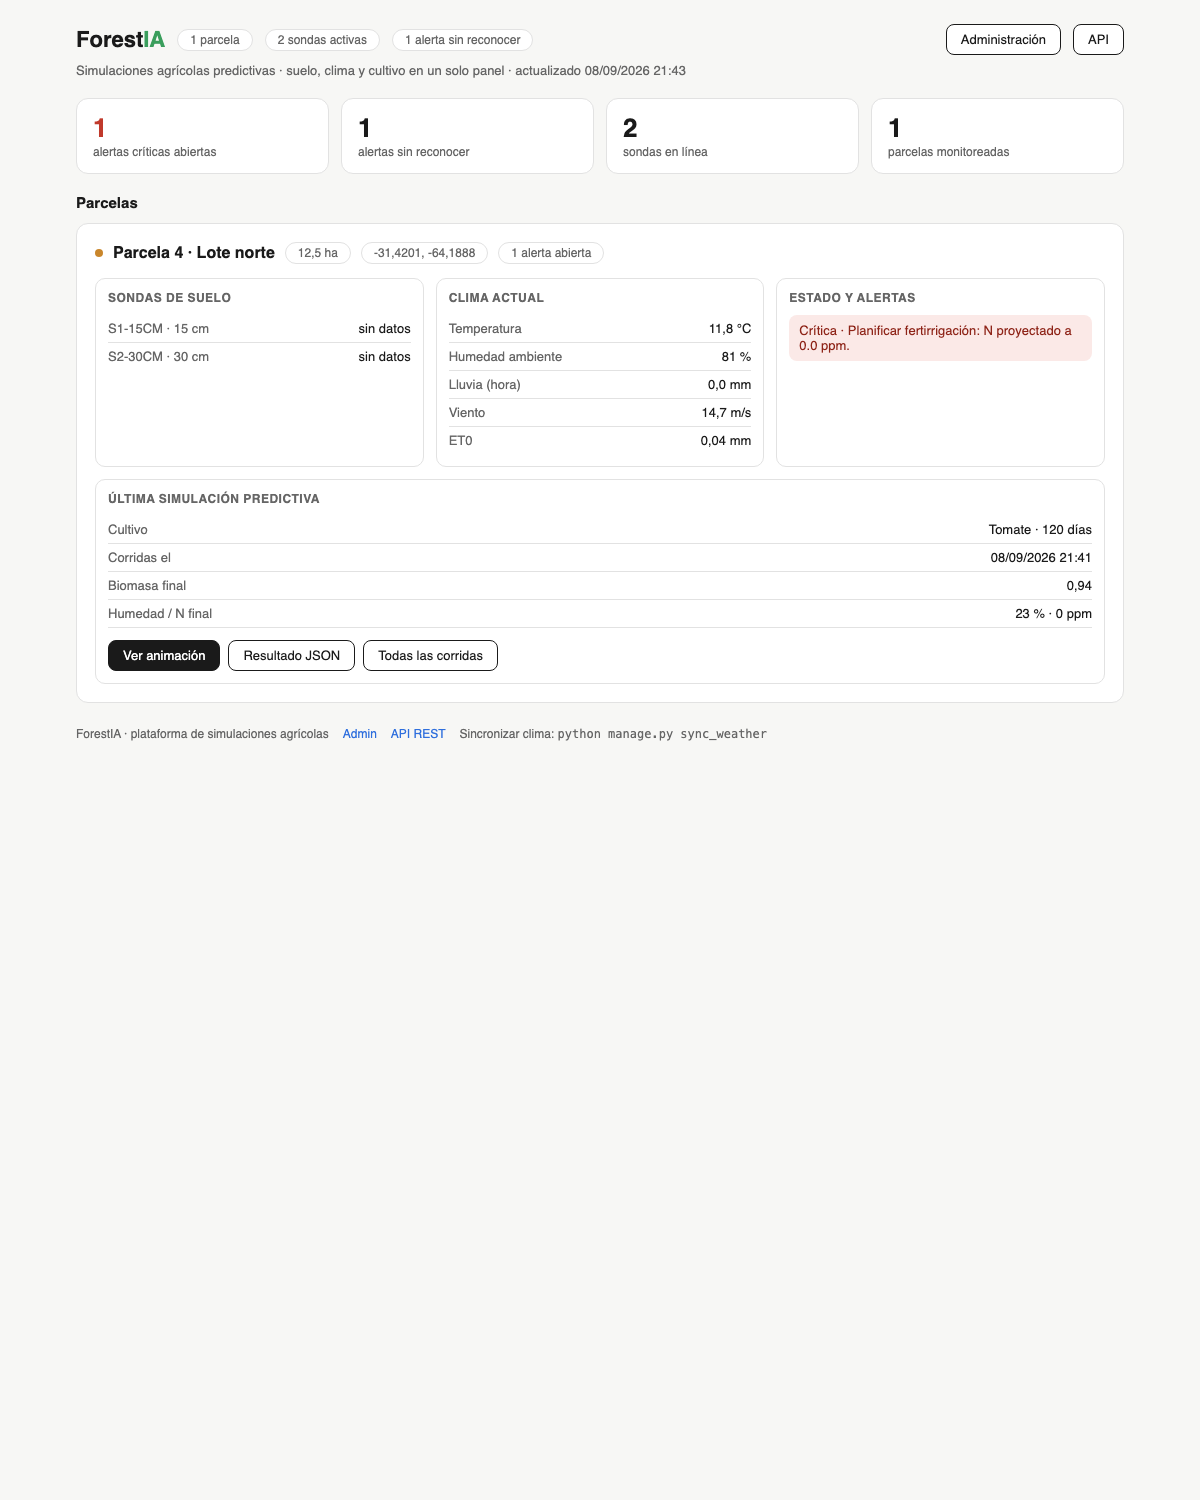
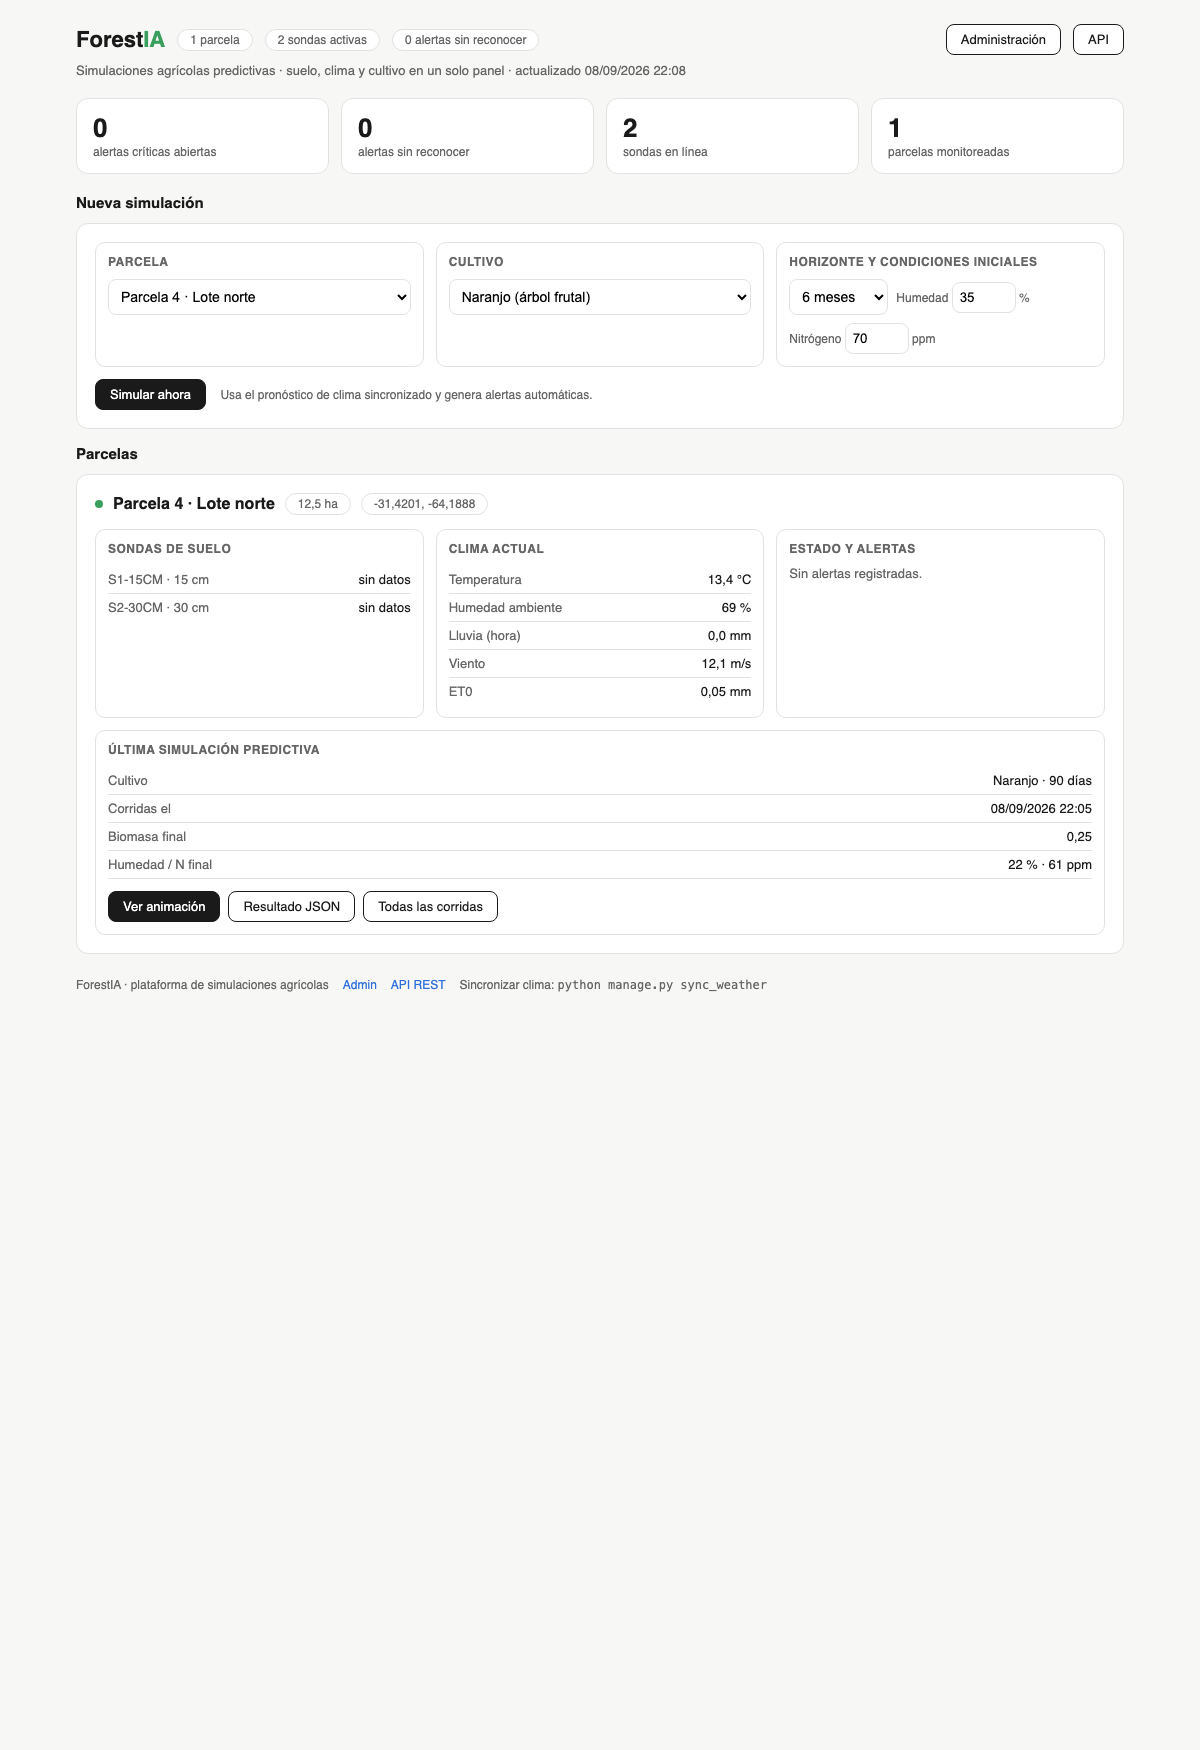
feat: lanzar simulaciones desde el panel sin usar la API
- Formulario en el dashboard: parcela, cultivo, horizonte (3/6/12 meses),
  humedad y nitrógeno iniciales
- POST /simular/: encola en Celery o ejecuta en línea si no hay broker
- Redirige a la vista animada con mensaje de confirmación
- Enlace de vuelta al panel en la vista de simulación

diff --git a/apps/dashboard/templates/dashboard/index.html b/apps/dashboard/templates/dashboard/index.html
@@ -71,6 +71,42 @@ h2{font-size:15px;font-weight:600;margin:8px 0 12px}
     <div class="kpi"><div class="v">{{ totals.parcels }}</div><div class="l">parcelas monitoreadas</div></div>
   </div>
 
+  <h2>Nueva simulación</h2>
+  <form class="parcel" method="post" action="{% url 'launch-simulation' %}">
+    {% csrf_token %}
+    <div class="cols">
+      <label class="col-4 box"><h4>Parcela</h4>
+        <select name="parcel" style="width:100%;padding:8px;border:1px solid var(--line);border-radius:8px;font-size:14px">
+          {% for p in all_parcels %}<option value="{{ p.id }}">{{ p.name }}</option>{% endfor %}
+        </select>
+      </label>
+      <label class="col-4 box"><h4>Cultivo</h4>
+        <select name="plant" style="width:100%;padding:8px;border:1px solid var(--line);border-radius:8px;font-size:14px">
+          {% for pl in plants %}<option value="{{ pl.id }}">{{ pl.name }} ({{ pl.get_kind_display|lower }})</option>{% endfor %}
+        </select>
+      </label>
+      <div class="col-4 box"><h4>Horizonte y condiciones iniciales</h4>
+        <div style="display:flex;gap:8px;flex-wrap:wrap;align-items:center">
+          <select name="months" style="padding:8px;border:1px solid var(--line);border-radius:8px;font-size:14px">
+            <option value="3">3 meses</option>
+            <option value="6" selected>6 meses</option>
+            <option value="12">12 meses</option>
+          </select>
+          <label style="font-size:12px;color:var(--mut)">Humedad
+            <input type="number" name="moisture" value="35" min="10" max="55" step="1" style="width:64px;padding:7px;border:1px solid var(--line);border-radius:8px"> %
+          </label>
+          <label style="font-size:12px;color:var(--mut)">Nitrógeno
+            <input type="number" name="nitrogen" value="70" min="20" max="100" step="1" style="width:64px;padding:7px;border:1px solid var(--line);border-radius:8px"> ppm
+          </label>
+        </div>
+      </div>
+      <div class="col-12">
+        <button class="btn" type="submit">Simular ahora</button>
+        <span style="font-size:12px;color:var(--mut);margin-left:10px">Usa el pronóstico de clima sincronizado y genera alertas automáticas.</span>
+      </div>
+    </div>
+  </form>
+
   <h2>Parcelas</h2>
   {% for p in parcels %}
   <div class="parcel">

diff --git a/apps/simulation/templates/simulation/preview.html b/apps/simulation/templates/simulation/preview.html
@@ -31,8 +31,13 @@ svg{display:block;width:100%;height:auto}
 </head>
 <body>
 <main>
+  {% if messages %}
+  <div style="background:#e9f7ee;border:1px solid #bfe6cd;color:#1f6b3a;border-radius:10px;padding:10px 14px;font-size:13px;margin-bottom:14px">
+    {% for message in messages %}{{ message }}{% endfor %}
+  </div>
+  {% endif %}
   <h1>ForestIA · Simulación de {{ run.plant }} — {{ run.parcel }}</h1>
-  <div class="sub">Suelo {{ run.soil_profile.get_soil_type_display|default:"—" }} · horizonte {{ run.horizon_days }} días · {{ run.get_status_display }} · animación referencial de crecimiento y capas</div>
+  <div class="sub"><a href="/">← volver al panel</a> · suelo {{ run.soil_profile.get_soil_type_display|default:"—" }} · horizonte {{ run.horizon_days }} días · {{ run.get_status_display }} · animación referencial de crecimiento y capas</div>
 
   <div class="scene-wrap">
     <div class="controls">

diff --git a/apps/dashboard/views.py b/apps/dashboard/views.py
@@ -1,7 +1,12 @@
 """Vista del panel principal de ForestIA."""
-from django.shortcuts import render
+from django.contrib import messages
+from django.shortcuts import redirect, render
+from django.views.decorators.http import require_POST
 
 from apps.alerts.models import Alert
+from apps.crops.models import Plant
+from apps.simulation.models import SimulationRun
+from apps.simulation.tasks import run_simulation_task
 from apps.soils.models import Parcel
 
 
@@ -49,5 +54,39 @@ def dashboard(request):
     return render(
         request,
         "dashboard/index.html",
-        {"parcels": parcels, "totals": totals},
+        {
+            "parcels": parcels,
+            "totals": totals,
+            "plants": Plant.objects.all(),
+            "all_parcels": Parcel.objects.all(),
+        },
     )
+
+
+MONTHS_TO_DAYS = {"3": 90, "6": 180, "12": 365}
+
+
+@require_POST
+def launch_simulation(request):
+    """Crea y ejecuta una simulación desde el formulario del panel.
+
+    Intenta encolarla en Celery; si el broker no está disponible
+    (entorno de desarrollo sin Redis), la ejecuta en el momento.
+    """
+    parcel = Parcel.objects.get(pk=request.POST["parcel"])
+    plant = Plant.objects.get(pk=request.POST["plant"])
+    run = SimulationRun.objects.create(
+        parcel=parcel,
+        plant=plant,
+        soil_profile=parcel.soil_profiles.first(),
+        horizon_days=MONTHS_TO_DAYS.get(request.POST.get("months", "6"), 180),
+        initial_moisture_pct=float(request.POST.get("moisture", 35)),
+        initial_nitrogen_ppm=float(request.POST.get("nitrogen", 70)),
+    )
+    try:
+        run_simulation_task.delay(run.id)
+        messages.success(request, f"Simulación de {plant} encolada (Celery).")
+    except Exception:  # noqa: BLE001 — broker caído: ejecutar en línea
+        run_simulation_task.apply(args=[run.id])
+        messages.success(request, f"Simulación de {plant} completada.")
+    return redirect("simulation-run-preview", pk=run.id)

diff --git a/apps/dashboard/urls.py b/apps/dashboard/urls.py
@@ -1,5 +1,8 @@
 from django.urls import path
 
-from .views import dashboard
+from .views import dashboard, launch_simulation
 
-urlpatterns = [path("", dashboard, name="dashboard")]
+urlpatterns = [
+    path("", dashboard, name="dashboard"),
+    path("simular/", launch_simulation, name="launch-simulation"),
+]
